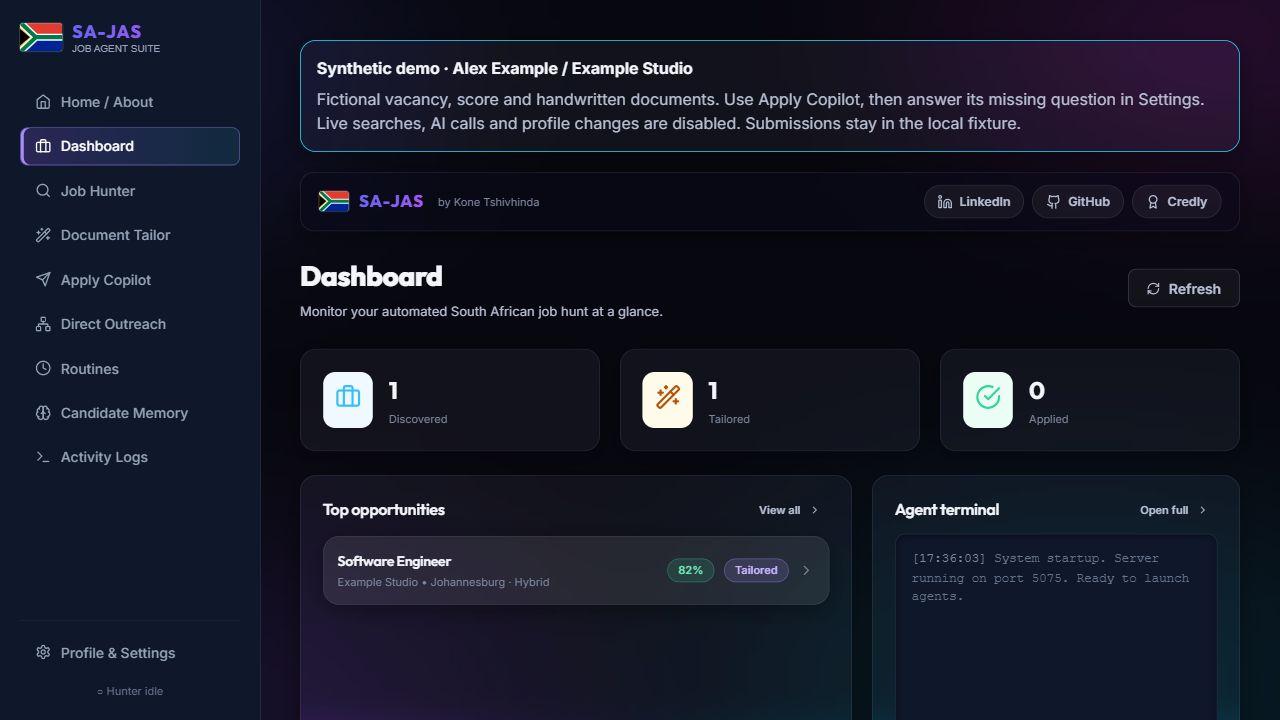
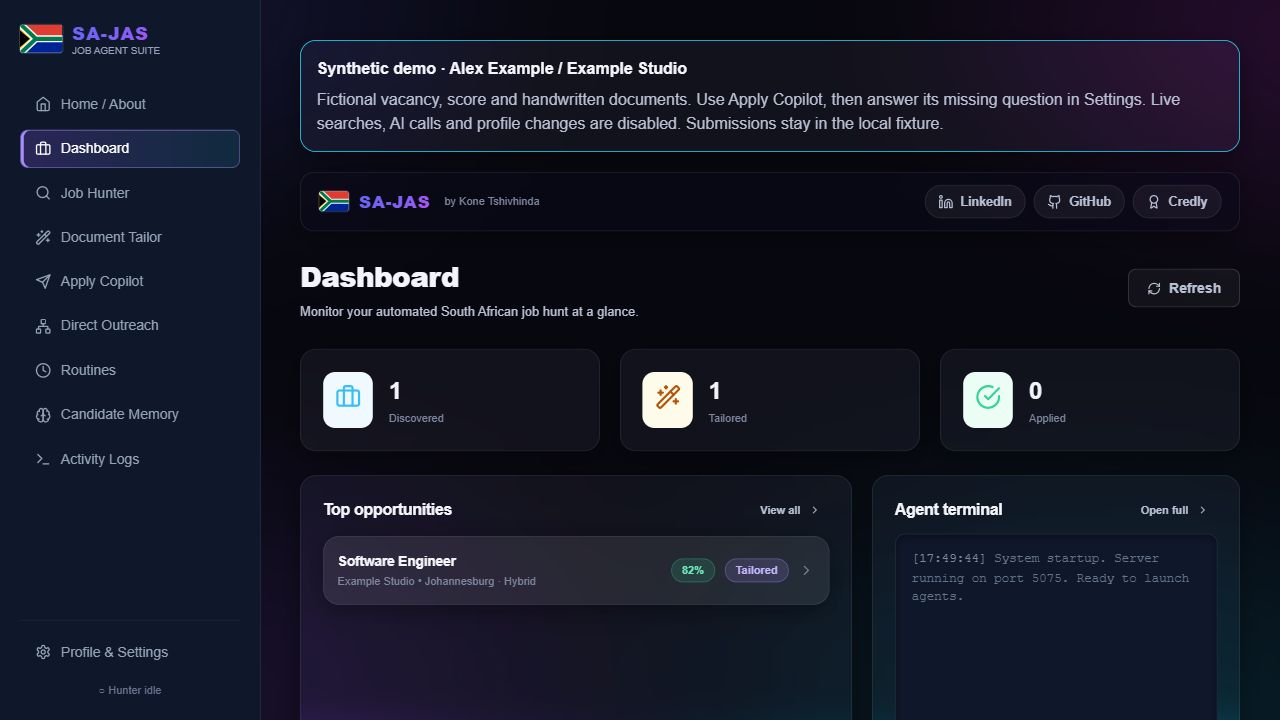
Keep demo fonts local and verify frontend startup

diff --git a/docs/DEMO.md b/docs/DEMO.md
@@ -68,8 +68,9 @@ Restarting starts a fresh walkthrough.
 The demo API uses an allowlist: live hunting, link checks, AI tailoring,
 referrals, login setup, routines, profile/key changes and backup restoration are
 blocked. AI calls are explicitly refused and the scheduler is not started. The
-copilot browser blocks requests outside this fixture's exact origin. Optional
-creator links on the dashboard remain ordinary external links; leave them
+copilot browser blocks requests outside this fixture's exact origin. The dashboard
+uses system-font fallbacks in demo mode, avoiding its usual remote web-font
+downloads. Optional creator links remain ordinary external links; leave them
 closed when keeping the walkthrough entirely local.
 
 ## Screenshots of verified behavior
